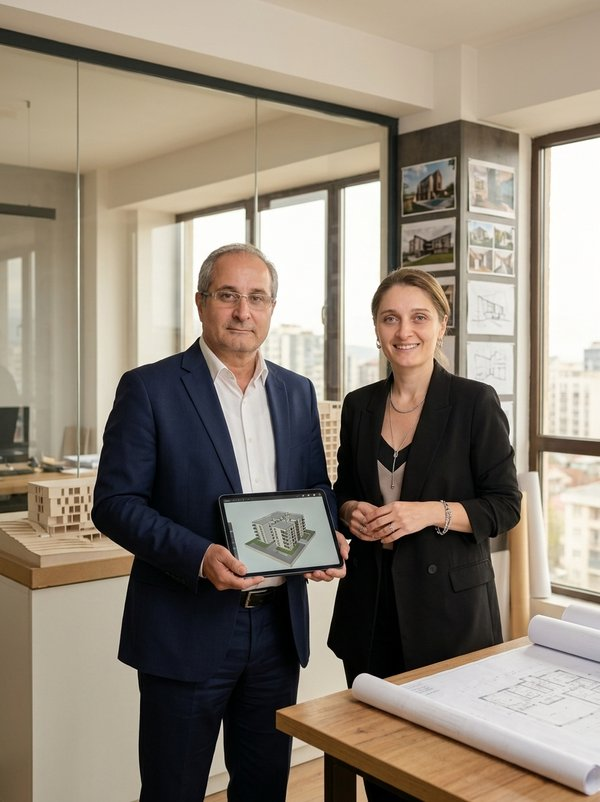
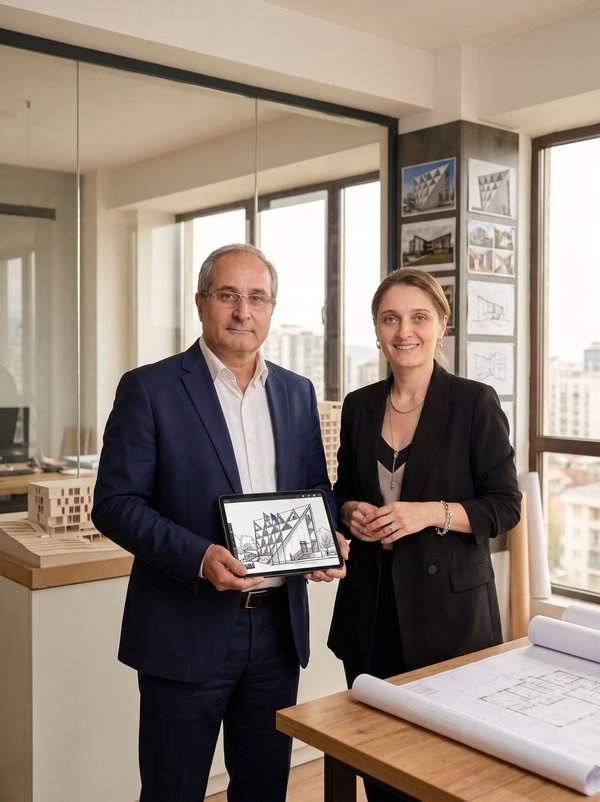
Update the studio portrait
Higher-resolution replacement supplied by the client.

diff --git a/docs/about/index.html b/docs/about/index.html
@@ -39,7 +39,7 @@
         </header>
         <div class="about">
           <figure class="about-portrait">
-            <img src="/img/about/portrait-600.jpg" srcset="/img/about/portrait-600.jpg 600w, /img/about/portrait-1200.jpg 896w"
+            <img src="/img/about/portrait-600.jpg" srcset="/img/about/portrait-600.jpg 600w, /img/about/portrait-1200.jpg 1200w"
                  sizes="(max-width: 932px) 100vw, 420px"
                  alt="Paata and Keti Kurdiani in the studio in Tbilisi">
           </figure>
